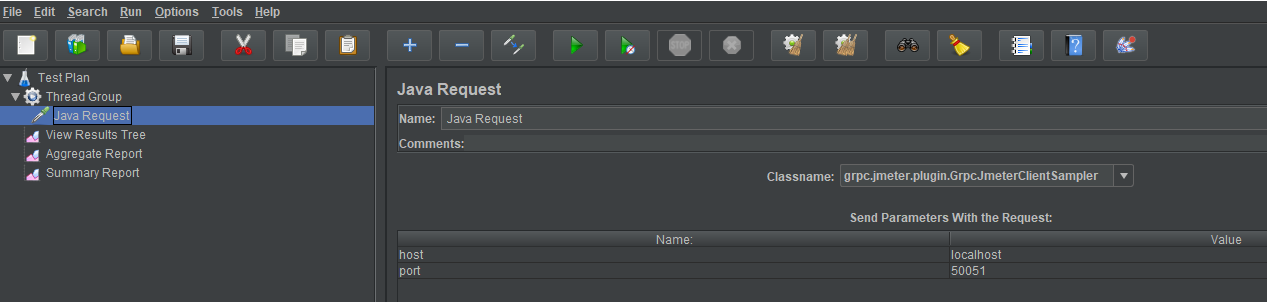
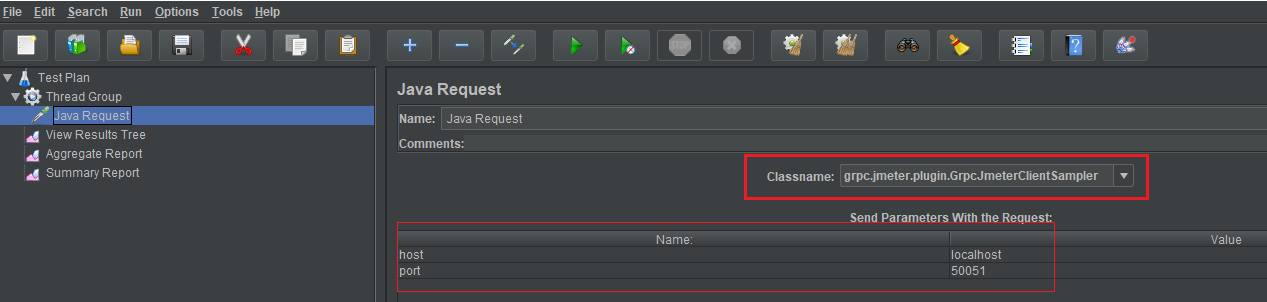
updated resources

diff --git a/README.md b/README.md
@@ -29,3 +29,7 @@ Steps to deploy the server side implementations
 
 Jmeter GRPC plugin will be visible like 
 <img src="https://github.com/badabapidas/grpc-jmeter-plugin/blob/master/plugin.png?at=refs%2Fheads%2Fmaster" alt="Grpc Jmeter Plugin"/>
+
+New grpc sampler wil be shown in the class name and it will expcept two params, the host and the port where the server is running.
+
+Hope this will be useful. Happy learning.
